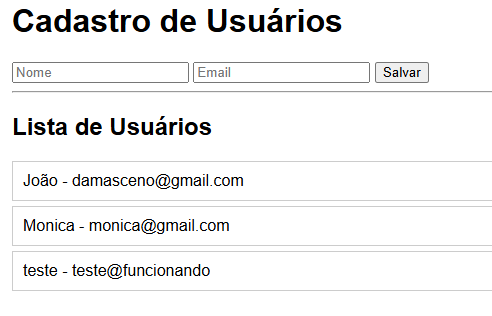
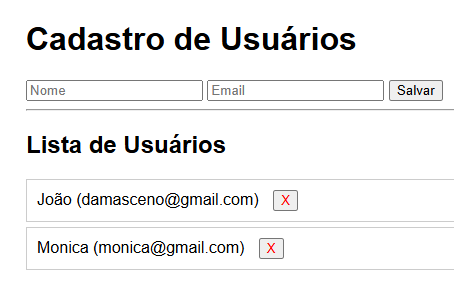
Commit corrigido

Changed region(s): [[0.0, 0.0299, 1.0, 0.598], [0.0308, 0.6279, 1.0, 0.9269]]

diff --git a/README.md b/README.md
@@ -31,8 +31,12 @@ Site:
 ![img2](Artefatos/site.png)  
 Teste:  
 ![img3](Artefatos/teste.png)  
-MongoDB:  
-![img4](Artefatos/mongodb.png)  
+Teste do Delete:  
+![img4](Artefatos/testedelete.png)  
+MongoDB (antes do Delete):  
+![img5](Artefatos/mongodb.png)  
+MongoDB (depois do Delete):  
+![img5](Artefatos/mongodbdelete.png)  
 Conclusão:  
-![img5](Artefatos/conclusao.png)
+![img7](Artefatos/conclusao.png)
 
